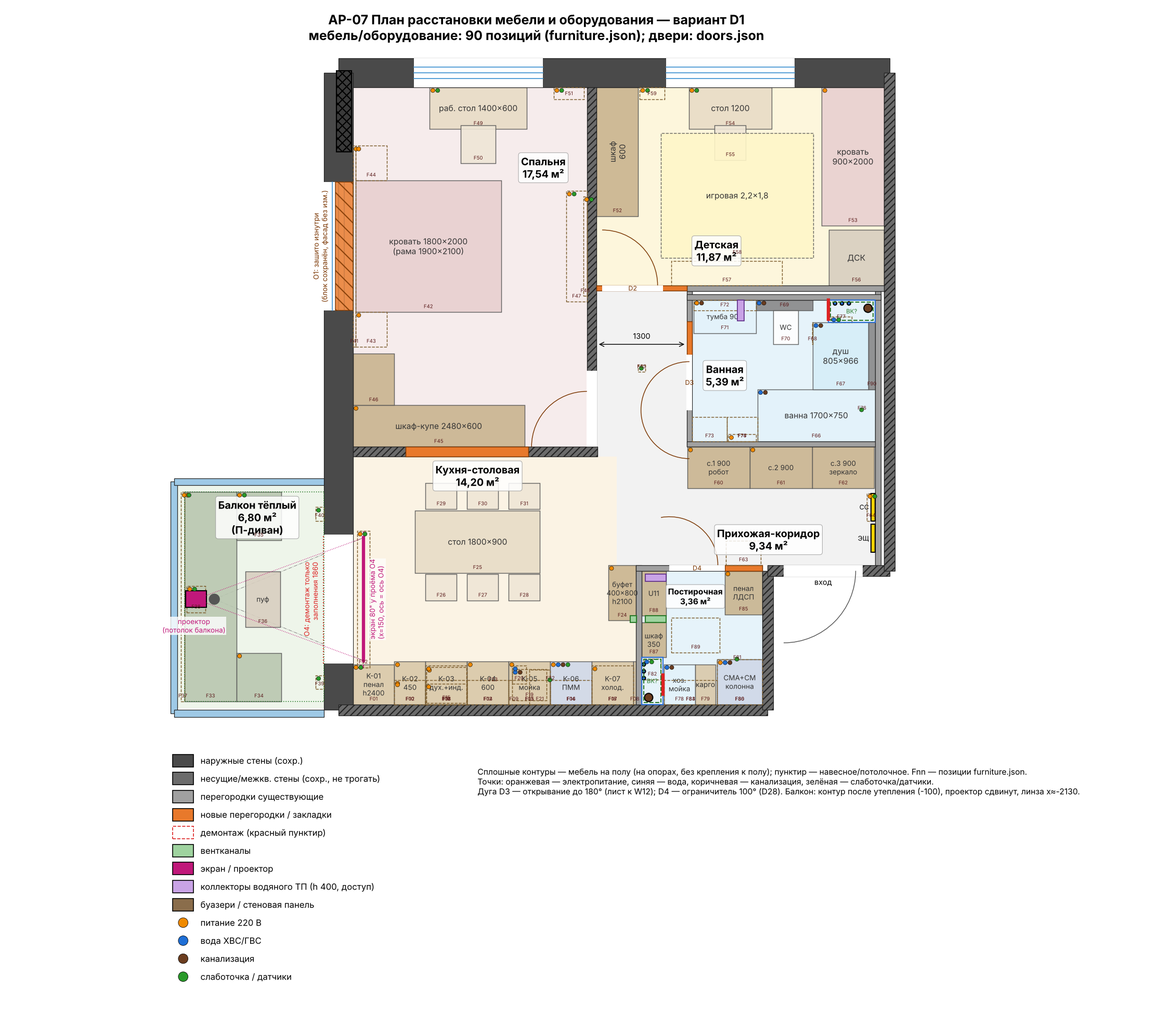
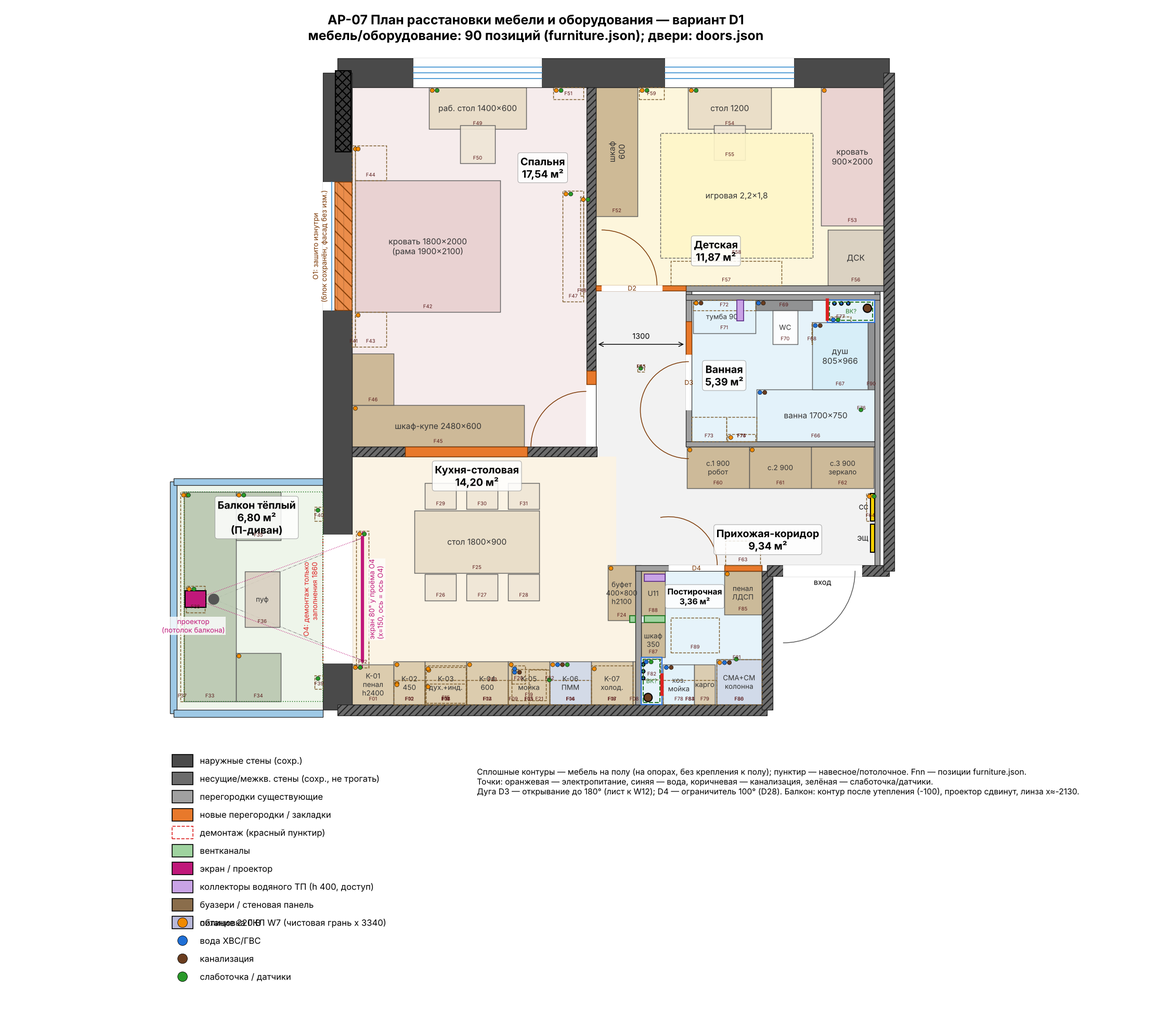
Design project: furniture/doors after D26 and W7 lining; work in progress
Claude-Session: https://claude.ai/code/session_011sUkeYXADW4VjjUfNdKrqY

diff --git a/apartment-project/tools/calc_room_schedule.py b/apartment-project/tools/calc_room_schedule.py
@@ -29,7 +29,7 @@ HEIGHT = {
     "R2": "2700",
     "R3": "2650 (короба: CB-1 2400, CB-2 2290, ламбрекен CB-3 2550)",
     "R4": "2650",
-    "R5": "2450 от УЧП; 2370 от пола ванной (подиум +80, D18)",
+    "R5": "2450 (пол ванной ±0.000 в уровень, D26)",
     "R6": "2500",
     "R7": "2500 [ДОПУЩЕНИЕ №51]",
 }
@@ -134,7 +134,8 @@ def main():
              "(оценка planning.json). Буазери (≈20 мм) и встроенная мебель в площадь не входят.")
     L.append("2. Балкон после утепления остаётся балконом (летнее помещение, к=0,3) до внесения изменений в техплан по "
              "согласованному проекту перепланировки (З-09).")
-    L.append("3. Ванная: чистовой пол +80 от УЧП (подиум, D18). Порог-ступень D3 +90 (D20).")
+    L.append("3. Ванная: чистовой пол ±0.000 в уровень с квартирой, порог D3 = 0 (D26); локальное понижение в зоне душа "
+             "к трапу — уклон 1,5 %. Запасное решение — подиум +80 (D18).")
     L.append("4. Нумерация помещений совпадает с листами АР (R1 = 1 … R7 = 7). Граница кухня/прихожая (x = 3810) — "
              "условная, без стены (questions №45); по ней отделка не вычитается.")
     out = ROOT / "04-specs/room-schedule.md"

diff --git a/apartment-project/00-brief/decisions.md b/apartment-project/00-brief/decisions.md
@@ -32,3 +32,5 @@
 | D26 | 2026-10-10 | Требование заказчика «трап в уровень с полом» vs подиум +80 (D18) и порог-ступень +90 (D20); НК-05 (уклон Ø50) | **Пол ванной ±0.000 в уровень с квартирой, порог D3 = 0** (скрытый профиль-водоотбойник, гидроизоляция под профилем и на 200 в проём); подиум +80 и ступень +90 отменены, D18 — запасное решение. **Вариант 1 (база):** сухая зона — по существующей стяжке (−20) + пирог плитки 20; в зоне душа и по трассе к стояку U6 — ЛОКАЛЬНЫЙ демонтаж стяжки до плиты (VK-D1, x 6641..7541, y 4550..5700) только после тепловизора/вскрытия (транзитные трубы от коллектора U14 в ванной вероятны — общий демонтаж запрещён); уклон душа 1,5 % от стекла (±0) к ультраплоскому линейному трапу H ≤ 65 у облицовки VK-C1, решётка −11,4 (Geberit CleanLine с низким комплектом / Alcadrain Low / TECEdrainline плоский — паспорт; трап с доп. сухим затвором). Ванна на ножках на ±0, сифон у правого торца — самотёк (тройник ≤ +20). **НК-05:** Ø50 — 0,03 на всех отводах, Ø110 — 0,02; 0,02 для Ø50 — только S1 (L 0,26 м) по обмеру. **Лоток U6 → вариант:** ≤ −76 — В1 самотёк (≤ −81 при H 70); −76…−69 — В1 с S1 i 0,02 и трапом H 60–65; > −69 — В3: насос SFA Sanishower Flat в кармане (пол ±0) или по выбору заказчика подиум F ≥ лоток + 76; трубы ТП в зоне душа, полоса у W14 свободна — В2 пристенный трап в VK-C1 (лоток ≤ −83, пол душа −2…+10); трубы и там — пол в уровень невозможен, D18. Лоток принят −80 [ДОПУЩЕНИЕ] — обмер З-04 и тепловизор З-05 до закупки трапа. Источник: plumbing.json (summary, sewer_calc.tee_table_u6), clashes.md K-20…K-26 | требование заказчика; нормы (уклоны, гидроизоляция) > эстетика |
 | D27 | 2026-10-10 | Нормоконтроль pib-planning: НК-06 (облицовка W7), НК-07 (КЕО спальни D1), НК-12/CAD-02 (добор O8), НК-13/CAD-03 (демонтаж блоков O6/O7), НК-14 (тексты planning.json) | **Облицовка W7** `LN-W7` задана в `planning.json → wall_linings` единой с `elevations.json → linings`: ГКЛ 12,5 на ПП 60/27 по прямым подвесам, **40 мм**, y 4820..8911, z 0..2700, **чистовая грань x = 3340**. Все привязки на W7 со стороны спальни — от неё; подрозетники плоские (за листом ≤ 27). **Добор O8** — `NW10` ПГП 100 + штукатурка до 140, y 4621..4820 (марка «Д-1 доб.»). **Демонтаж** дверных блоков O6, O7 добавлен в `demolition` (O6-door, O7-door). Тексты D3/ванна/ниши/handoff приведены к D18/D20/D23. **КЕО спальни D1** (окно O2, ЮВ, точка 4,19 м от окна; расчёт `tools/gen_planning.py → keo_side()`): без затенения **0,74 %** ≥ 0,5 %; 4-эт. здание напротив W1 на 30 м — 0,55 %; на 25 м — **0,43 %** (недобор); плотный двор 20 м — 0,16 %. Зашивку O1 и буазери F41 выполнять после ответа №58 (застройка напротив W1). При недоборе: не зашивать O1 (или D2); при 25 м достаточно светлой отделки ρ ≥ 0,7 + стеклопакета τ ≥ 0,8 (0,63 %). Уточняет D25 в части срока заказа F41. | нормы (СанПиН 1.2.3685-21, СП 52.13330, ГОСТ 21.501) |
 | D28 | 2026-10-10 | НК-04: дверь постирочной Д-4 при 180° закрывает выключатели кухни S1/S2 (x 4250/4340, h 900), при 90° дуга задевает распашные фасады секции 1 шкафа прихожей F60 | Д-4 — **ограничитель открывания 100°** (верхний скрытый, в коробке; напольный запрещён D3, настенный при 100° не работает). При 100° конец листа (4448, 2700), S1/S2 в 227–315 мм от листа — открыты, перенос не нужен. Секция F60 — обе двери **на петлях справа** (x 5280, x 5730): дуги Д-4 (r 700) и фасадов F60 (r 450) не пересекаются (между центрами 1318 > 1150). doors.json/doors.md, furniture.json обновлены (pib-furniture) | нормы (НК п. 3) > функция |
+| D31 | 2026-10-10 | D26: ультраплоский линейный трап с гидрозатвором 25–35 мм (типовой ≥ 50) + доп. сухой затвор — отступление | **ПРИНЯТО С УСЛОВИЯМИ.** Риски: малый гидрозатвор быстрее испаряется при редком пользовании (≈ 2–3 нед. против 1–2 мес.); его легче сорвать перепадом давления в стояке. Это 1 этаж, низ стояка К1 U6: подпор и пена при залповых сбросах сверху, первым срабатывает при засоре лежака. Итог — запахи из канализации в ванной (СП 30.13330.2020: каждый прибор с гидрозатвором, защита от проникновения газов). Компенсация и условия: (1) только модели с **сертифицированным комбинированным затвором** — гидрозатвор по паспорту ≥ 25 мм + сухой затвор (мембрана/поплавок/клапан), подтверждённый сертификатом/паспортом производителя по EN 1253 или ГОСТ; кустарные вставки не допускаются; (2) **ревизия** — решётка и сифон с сухим затвором извлекаются без инструмента для чистки и замены; выпуск к U6 — через люк короба U10/VK-C1; (3) вытяжной вентилятор ванной с обратным клапаном, без отрицательного давления в ванной при закрытой двери (подрез D3 сохраняется); (4) в инструкцию по эксплуатации: пользоваться душем или проливать трап не реже 1 раза в 2 недели, при отъезде — проливать перед отъездом, осмотр затвора раз в год; (5) запросить у УК историю засоров лежака; при засорах или подпорах — трап с защитой от обратного потока или обратный клапан на отводе (pib-engineering). Если модели с сертифицированным сухим затвором и H ≤ 65 нет — применяется запасное решение D18 (подиум + трап с затвором 50). Закупка — после З-04/З-05 (D26) | нормы (санитарные, СП 30) > требование заказчика |
+| D32 | 2026-10-10 | Согласование D25 (инсоляция обеспечена, F41 можно заказывать) и D27 (КЕО спальни зависит от застройки напротив W1) | **D25 в части сроков заменяется D27:** инсоляция по-прежнему обеспечена (ЮВ), но **зашивку O1 и заказ буазери F41 выполнять только после ответа на №58**. Остальные работы в спальне не блокируются. Дерево решений по ответу: обзор открыт или здание ≤ 4 эт. на ≥ 30 м (КЕО ≥ 0,55 %) — зашивка O1 и F41 по D1. Застройка на 25–30 м — зашивка допустима **только** со стеклопакетом O2 τ ≥ 0,8 (замена стеклопакета в существующей раме, через гарантию застройщика, фасад не меняется) + светлая отделка спальни ρ ≥ 0,7 (потолок C1, стены светлее C2 при необходимости — pib-concept). Расчёт pib-planning: 0,63 %. Ближе 25 м или плотный двор (КЕО < 0,5 % даже с мерами) — **O1 не зашивать**: окно остаётся с плотными шторами, изголовье с буазери вокруг проёма, или переход на D2. Дополнительная мера в любом сценарии — раскрытие (скос) внутренних откосов O2 под 15–20° в пределах утеплённой части откоса, без затрагивания кладки, со светлой отделкой. Решение по ответу №58 фиксирует pib-planning, ГИП подтверждает | нормы (СанПиН 1.2.3685-21, КЕО) > эстетика |

diff --git a/apartment-project/04-specs/doors.md b/apartment-project/04-specs/doors.md
@@ -8,7 +8,7 @@
 | ДВ-1 (O5) | R4 Прихожая (вход с лестничной клетки) | W5; x 6220..7360 | ≈ 960–1040 × 2050 (существующий блок застройщика, уточнить) | 1140 × 2100 (по плану, уточнить обмером) | распашная, металлическая входная (существующая) | наружу, на лестничную клетку; левая (петли у x 6220) | существующая: 2 замка, глазок, уплотнитель; при замене — EI 30 не требуется, терморазрыв, датчик открытия (умный дом) | существующий |
 | Д-1 (D1) | R1 Спальня (из коридора) | W7, в существующем проёме O8 (1099, y 3721..4820); y 3721..4621 (блок 900) | 800 × 2100 × 40 (низ +15..+20 — подрез) | 900 × 2180 (O8 1099 → добор ПГП 199 у y 4621..4820; над проёмом — надпроёмная панель до +2750, M19) | распашная, МДФ эмаль C1, филёнчатая (1–2 филёнки), наличник 70–80 с цоколем | внутрь спальни, лист к W8 (y 3721); правая (петли у y 3721; ГОСТ 475 — со стороны открывания) | петли скрытые 3D ×3 (полотно 2100); защёлка магнитная; ручка на розетке латунь сатин C8; ограничитель настенный на W8 (не в пол); уплотнитель по стойкам и верху (акустика), подрез 15–20 мм (переток от бризера, clashes K-14) | без порога (ёлочка сквозная); подрез полотна 15–20 мм |
 | Д-2 (D2) | R2 Детская (из коридора) | NW4 (новая ПГП 80); x 3600..4480 (блок 880) | 800 × 2100 × 40 (низ +15..+20 — подрез) | 880 × 2180 | распашная, МДФ эмаль C1, филёнчатая, наличник с цоколем | внутрь детской, лист к W7 (x 3600); правая (петли у x 3600) | петли скрытые 3D ×3; защёлка магнитная; ручка на розетке C8; ограничитель настенный на W7; доводчик-демпфер от защемления пальцев (детская); без замка; подрез 15–20 мм (переток от бризера, clashes K-14) | без порога; подрез полотна 15–20 мм |
-| Д-3 (D3) | R5 Ванная (из коридора) | W12 (пробивка y 4250..5050); y 4250..5050 (блок 800) | 700 × 2010 × 40 | 780 × 2180 (от пола коридора; порог-ступень +90, D20) | распашная, МДФ эмаль влагостойкая C1, филёнчатая, наличник с цоколем со стороны коридора | наружу в коридор, с открыванием до 180° — лист ложится на W12 (y 3550..4250), коридор 1300 не сужается; правая (петли у y 4250) | петли скрытые 180° ×3; WC-фиксатор с индикатором; ручка на розетке C8; ограничитель настенный на W12 (y≈3750); приток — переточная решётка в нижней части полотна (полотно стоит на пороге +90, подрез не нужен) | порог-ступень +90 (D20; пол ванной +80, без пандуса — вода не выводится в коридор); подрез не делается, приток — переточная решётка в полотне или зазор по порогу 20 |
+| Д-3 (D3) | R5 Ванная (из коридора) | W12 (пробивка y 4250..5050); y 4250..5050 (блок 800) | 700 × 2100 × 40 (низ +20 — подрез над профилем) | 780 × 2180 (пол ванной ±0 = пол коридора, D26) | распашная, МДФ эмаль влагостойкая C1, филёнчатая, наличник с цоколем со стороны коридора | наружу в коридор, с открыванием до 180° — лист ложится на W12 (y 3550..4250), коридор 1300 не сужается; правая (петли у y 4250) | петли скрытые 180° ×3; WC-фиксатор с индикатором; ручка на розетке C8; ограничитель настенный на W12 (y≈3750); приток — переточная решётка в нижней части полотна (или подрез 20), U26 | без порога (0, D26): скрытый профиль-водоотбойник из нерж. стали в уровень пола, гидроизоляция под профилем и на 200 в проём |
 | Д-4 (D4) | R6 Постирочная (из прихожей) | W11 (пробивка x 4570..4910 + часть O6); x 4570..5370 (блок 800) | 700 × 2085 × 40 | 780 × 2180 | распашная, МДФ эмаль влагостойкая C1 (в цвет стены — «тихая» дверь прихожей), наличник с цоколем | наружу в прихожую, открывание ОГРАНИЧЕНО 95–100° (D28): конец листа при 100° — (4448, 2700); выключатели S1/S2 (x 4250/4340, h 900) остаются открыты — 227–315 мм от листа; правая (петли у x 4570) | петли скрытые 3D ×3; защёлка магнитная + WC-фиксатор; ручка на розетке C8; ВЕРХНИЙ скрытый ограничитель открывания 100° (тяга в коробке/полотне; настенный не работает — при 100° лист не касается стены; напольный запрещён D3); подрез 20 мм | порог-ограничитель воды +15 (мокрая зона) |
 | П-1 (P1) | R3/R7 Кухня — балкон | W2, проём O4; y 590..2450 | — | 1860 × 2450 (демонтаж только заполнения) | проём без заполнения (портал) | —; — | — | без порога (пол балкона до ±0.000) |
 
@@ -24,10 +24,10 @@
 ## Общие указания
 
 - Ограничители — только настенные (водяной ТП, D3).
-- Верх коробок Д-1…Д-4 — единая линия +2125 (D20); черновые проёмы по высоте 2180 от чистого пола коридора/прихожей. Полотна: Д-1, Д-2 — 2100 (низ +15..+20, подрез); Д-3 — 2010 (на пороге-ступени +90); Д-4 — 2085 (порог +15). Наличники с цоколем, потолок прихожей/коридора +2650 (D19).
+- Верх коробок Д-1…Д-4 — единая линия +2125 (D20); черновые проёмы по высоте 2180 от чистого пола коридора/прихожей. Полотна: Д-1, Д-2 — 2100 (низ +15..+20, подрез); Д-3 — 2100 (без порога, D26); Д-4 — 2085 (порог +15). Наличники с цоколем, потолок прихожей/коридора +2650 (D19).
 - Отделка — M19 (concept: МДФ эмаль C1, филёнки, наличник 70–80 с цоколем); фурнитура латунь сатин C8.
-- Приток к вытяжкам: Д-3 — переточная решётка в полотне (полотно на пороге-ступени +90, D20), Д-4 — подрез 20 мм (U25); Д-1, Д-2 — 15–20 мм (переток от бризеров спальни и детской к вытяжкам, clashes K-14). Альтернатива подрезу — переточная решётка в полотне.
-- Межкомнатные полотна: 2 × 800×2100 (Д-1, Д-2), 700×2010 (Д-3) и 700×2085 (Д-4) влагостойкие; верх коробок +2125. ДВ-1 — существующая.
+- Приток к вытяжкам: Д-3 — переточная решётка в полотне (или подрез 20; без порога, D26), Д-4 — подрез 20 мм (U25); Д-1, Д-2 — 15–20 мм (переток от бризеров спальни и детской к вытяжкам, clashes K-14). Альтернатива подрезу — переточная решётка в полотне.
+- Межкомнатные полотна: 2 × 800×2100 (Д-1, Д-2), 700×2100 (Д-3) и 700×2085 (Д-4) влагостойкие; верх коробок +2125. ДВ-1 — существующая.
 
 ## Ревизионные люки (справочно, по plumbing.json)
 

diff --git a/apartment-project/06-review/clashes.md b/apartment-project/06-review/clashes.md
@@ -60,8 +60,8 @@
 | НК-28 | мебель ↔ кино | дверь K-01 бьёт в опущенный экран F32 | геркон на фасаде K-01 блокирует сцену «Кино»/привод экрана, фасад с доводчиком. **pib-electrical:** добавить геркон K-01 (Zigbee) в сцену «Кино» | ПРИНЯТО (мебель) / ОТКРЫТО (ЭО: геркон) |
 | НК-30 | мебель ↔ ЭМ | вывод БП LED буфета h 2050 за корпусом | F24: вывод 220 В h 2200 над буфетом. **pib-electrical:** P-K12 h 2050 → 2200 | ПРИНЯТО (мебель) / ОТКРЫТО (ЭО) |
 | CAD-09 | мебель ↔ обмер | F33 на U22 Ø200 | по умолчанию — вырез 250×250 в каркасе спинки + обшивка U22 в утеплении; уточнить обмером (З-11) | ОБМЕР |
-| Д-3 / D26 | АР-08 ↔ ВК | пол ванной в уровень (D26) | решение D26 в plumbing.json/clashes.md ещё не опубликовано; doors.json пока: Д-3 700×2010, порог-ступень +90. После D26 → 700×2100, без порога, переточная решётка | ОЖИДАЕТ D26 |
-| НК-06 | АР ↔ мебель | облицовка W7 не задана в planning.json | ТВ F48 и консоль F47 привязаны к грани кладки x 3380; перепривязка — после появления облицовки W7 в planning.json | ОЖИДАЕТ pib-planning |
+| Д-3 / D26 | АР-08 ↔ ВК | пол ванной в уровень (D26) | D26 учтён: Д-3 700×2100 × 40, порог 0 (скрытый профиль), проём 780×2180, переточная решётка; высоты мебели R5 от ±0 (z тумбы F71 500 над U14 h 400, пенал F73 200, корзина F74 150, зеркальный шкаф F72 1150, ванна F66 на ножках на ±0) | ПРИНЯТО |
+| НК-06 | АР ↔ мебель | облицовка W7 (LN-W7, 40 мм) — перепривязка ТВ/консоли | LN-W7 учтена: консоль F47 x 3040..3340, ТВ F48 x 3290..3340 (от чистовой грани x=3340), крепление через закладной брус в каркасе; в ногах кровати до консоли 900 | ПРИНЯТО (мебель) |
 
 ## Отделка (pib-finishes, 2026-10-10) — нормоконтроль итерация 1
 
@@ -83,7 +83,7 @@
 | K-20 | ВК ↔ АР (полы, потолки, узлы) | D26: пол ванной ±0 вместо +80; порог-ступень +90 (D20, узел 5) отменён; потолок ванной +2450 теперь 2450 от пола. | **pib-finishes:** floors.json R5 level 80 → 0, пирог сухой зоны как P-LAUNDRY (20 по стяжке −20); узел 5 → порог 0, скрытый профиль-водоотбойник из нерж. стали в уровень, гидроизоляция под профилем и на 200 в проём; новый узел «карман душа VK-D1» (стяжка до плиты, фиброармированная стяжка с уклоном 1,5 %, ленты по шву старая/новая стяжка); ceilings R5 без изменений. НК-27 (ступень +90) снимается. | ОТКРЫТО |
 | K-21 | ВК ↔ обмер (З-04) | Самотёк душа при полу ±0 зависит от лотка U6: при трапе H 65 и i 0,03 нужен лоток ≤ −76 (H 70 → ≤ −81; i 0,02 → ≤ −74/−69 при H 65/60). Принято −80 [ДОПУЩЕНИЕ]. | Таблица «лоток U6 → вариант» — plumbing.json `tee_table_u6` и D26: ≤ −76 — В1; −76…−69 — В1 с i 0,02 на S1; > −69 — В3 SFA Sanishower Flat (пол ±0) или подиум F ≥ лоток + 76. **pib-measurement:** обмер до закупки трапа. | ОБМЕР |
 | K-22 | ВК/ОВ ↔ тепловизор (З-05) | Карман VK-D1 (демонтаж стяжки до плиты, x 6641..7541, y 4550..5700) допустим только без труб ТП. Коллектор U14 стоит в ванной — транзитные трубы в стяжке ванной вероятны. | Тепловизор/вскрытие до работ. Трубы в зоне душа, но полоса у W14 свободна → В2 (пристенный трап в VK-C1, демонтаж только полосы 95). Трубы и там → пол в уровень невозможен, запасной D18 (подиум). Общий демонтаж стяжки ванной запрещён. | ОБМЕР |
-| K-23 | ВК ↔ мебель/двери (Д-3) | Ответ на строку «Д-3 / D26» мебели. | D26 опубликован: Д-3 без порога (0), полотно 700×2100, подрез 20 или переточная решётка; в R5 высоты мебели — от ±0 (абсолютные z −80, относительные h без изменений). **pib-furniture:** doors.json, furniture.json conventions. | ОТКРЫТО |
+| K-23 | ВК ↔ мебель/двери (Д-3) | Ответ на строку «Д-3 / D26» мебели. | D26 опубликован: Д-3 без порога (0), полотно 700×2100, подрез 20 или переточная решётка; в R5 высоты мебели — от ±0 (абсолютные z −80, относительные h без изменений). **pib-furniture:** doors.json, furniture.json conventions. | ПРИНЯТО (pib-furniture 2026-10-10: Д-3 700×2100, без порога, скрытый профиль-водоотбойник, переточная решётка/подрез 20, верх коробки +2125; furniture.json conventions — R5 от ±0) |
 | K-24 | ВК ↔ ЭМ | 1) Душ — в кармане VK-D1, электро-ТП там не укладывается (TP1 уже вне душа — без изменений). 2) Если по обмеру выйдет В3 — насос SFA ≈ 0,4 кВт. 3) НК-29: блокировка вытяжки. | **pib-electrical:** 1 — нет действий; 2 — резерв трассы гофры к U10, вывод IPX4 вне зон 0–1 и линию АВДТ 30 мА закладывать только после обмера; 3 — в сценарии «Готовка» скорость KH1 > 1 только при открытом микропроветривании (LV21), иначе 1-я скорость/рециркуляция (hvac.json `cooking_interlock_nk29`). | ОТКРЫТО |
 | K-25 | ВК (НК-05) | Отводы Ø50 были с наименьшим уклоном 0,02. | Принят нормальный 0,03 на S1, S2, S4–S7; Ø110 — 0,02. Высоты в цоколях проверены: S5 верх трубы +85 < 150 (основание 620). 0,02 оставлен только как допустимый минимум для S1 (L 0,26 м, прямой участок в кармане/коробе, ревизия через трап) по результату обмера. | ЗАКРЫТО |
 | K-26 | ОВ ↔ АР (НК-21, НК-22) | НК-21: CB-2 в hvac.json был y 350..1300. НК-22: естественная вытяжка кухни через U13 внутри CB-2. | НК-21: hvac.json приведён к ceilings.json — CB-2 y 620..1300, низ +2290; y 350..620 — +2400 над пеналом. НК-22: «комбинированная решётка» в отверстии 100×150 не работает (патрубок Ø125 занимает 82 %). Принят двухходовой узел в CB-2: тройник Ø125, ветвь KH1 с обратным клапаном + ветвь естественной вытяжки из полости короба (через HC-2) с гравитационным клапаном, открывающимся в сторону канала. Проверка при +5 °C: располагаемое 7,6 Па ≥ потери 6,4 Па для 60 м³/ч; HC-2 0,038 м² ≥ ветви 0,0123 м². **pib-finishes:** в ceilings.json HC-2 заменить формулировку «открытая часть комбинированной решётки U13» на «двухходовой узел ВК/ОВ (hvac.json)». | ЗАКРЫТО (ОВ) / ОТКРЫТО (текст ceilings) |

diff --git a/apartment-project/04-specs/room-schedule.md b/apartment-project/04-specs/room-schedule.md
@@ -10,7 +10,7 @@
 | 2 | R2 | Детская | 11,87 | 11,66 | 11,97 | 2700 | жилая | отделка 15 |
 | 3 | R3 | Кухня-столовая | 14,20 | 14,01 | 14,20 | 2650 (короба: CB-1 2400, CB-2 2290, ламбрекен CB-3 2550) | вспомогательная (кухня) | отделка 15 |
 | 4 | R4 | Прихожая-коридор | 9,34 | 9,14 | 9,50 | 2650 | вспомогательная | отделка 15 |
-| 5 | R5 | Ванная | 5,39 | 4,86 | 5,38 | 2450 от УЧП; 2370 от пола ванной (подиум +80, D18) | мокрая | отделка 30; короб стояков U10 678×325; облицовка W14 в душе 95 (D18) y 4550..5516 |
+| 5 | R5 | Ванная | 5,39 | 4,86 | 5,38 | 2450 (пол ванной ±0.000 в уровень, D26) | мокрая | отделка 30; короб стояков U10 678×325; облицовка W14 в душе 95 (D18) y 4550..5516 |
 | 6 | R6 | Постирочная | 3,36 | 3,06 | 3,36 | 2500 | мокрая | отделка 15; короб стояков U5 305×681 |
 | 7 | R7 | Балкон (тёплый) | 6,80 | 6,03 | 6,81 | 2500 [ДОПУЩЕНИЕ №51] | летнее (балкон, к=0,3), тёплый контур | отделка 15; утепление PIR/XPS + обшивка по остеклению/ограждению 100 (3 стороны) |
 | | | **Итого без балкона** | **61,71** | **59,84** | **62,20** | | | |
@@ -40,5 +40,5 @@
 
 1. Отделка стен [ДОПУЩЕНИЕ]: штукатурка + шпаклёвка 15 мм; в ванной — 30 мм (выравнивание + клей + керамогранит). Облицовка W7 спальни ГКЛ на профиле — 55 мм (геометрию задаёт pib-planning, НК-06). Облицовка W14 в душе — 95 мм (D18). Утепление балкона — 100 мм по остеклению/ограждению с трёх сторон (оценка planning.json). Буазери (≈20 мм) и встроенная мебель в площадь не входят.
 2. Балкон после утепления остаётся балконом (летнее помещение, к=0,3) до внесения изменений в техплан по согласованному проекту перепланировки (З-09).
-3. Ванная: чистовой пол +80 от УЧП (подиум, D18). Порог-ступень D3 +90 (D20).
+3. Ванная: чистовой пол ±0.000 в уровень с квартирой, порог D3 = 0 (D26); локальное понижение в зоне душа к трапу — уклон 1,5 %. Запасное решение — подиум +80 (D18).
 4. Нумерация помещений совпадает с листами АР (R1 = 1 … R7 = 7). Граница кухня/прихожая (x = 3810) — условная, без стены (questions №45); по ней отделка не вычитается.
